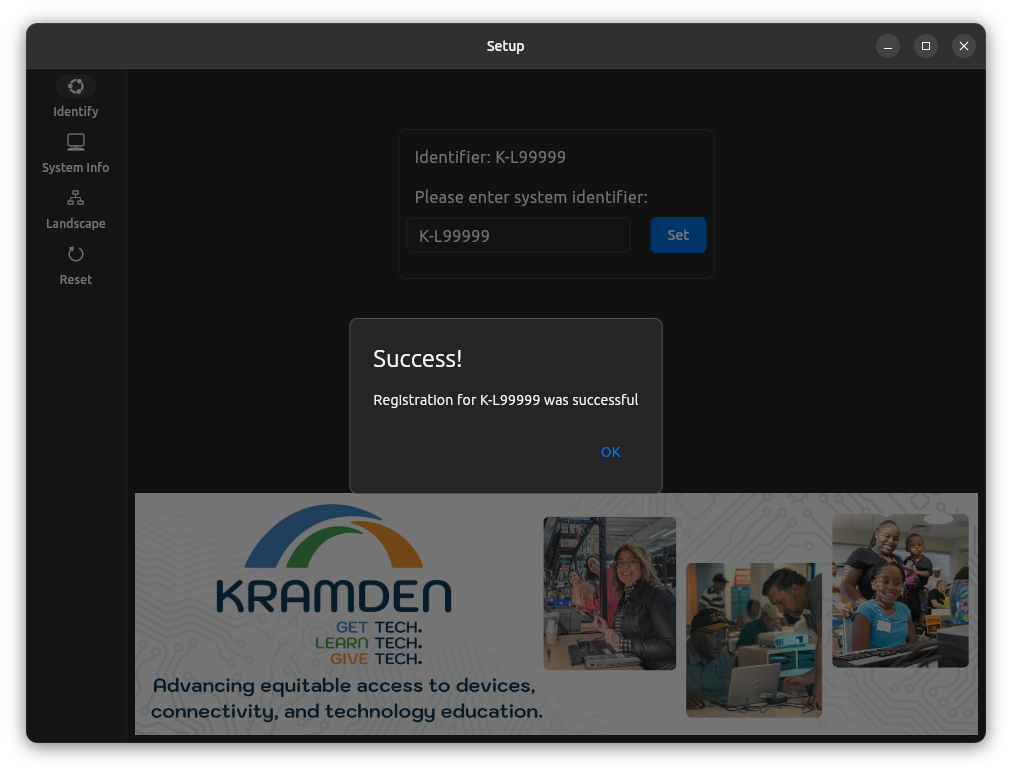
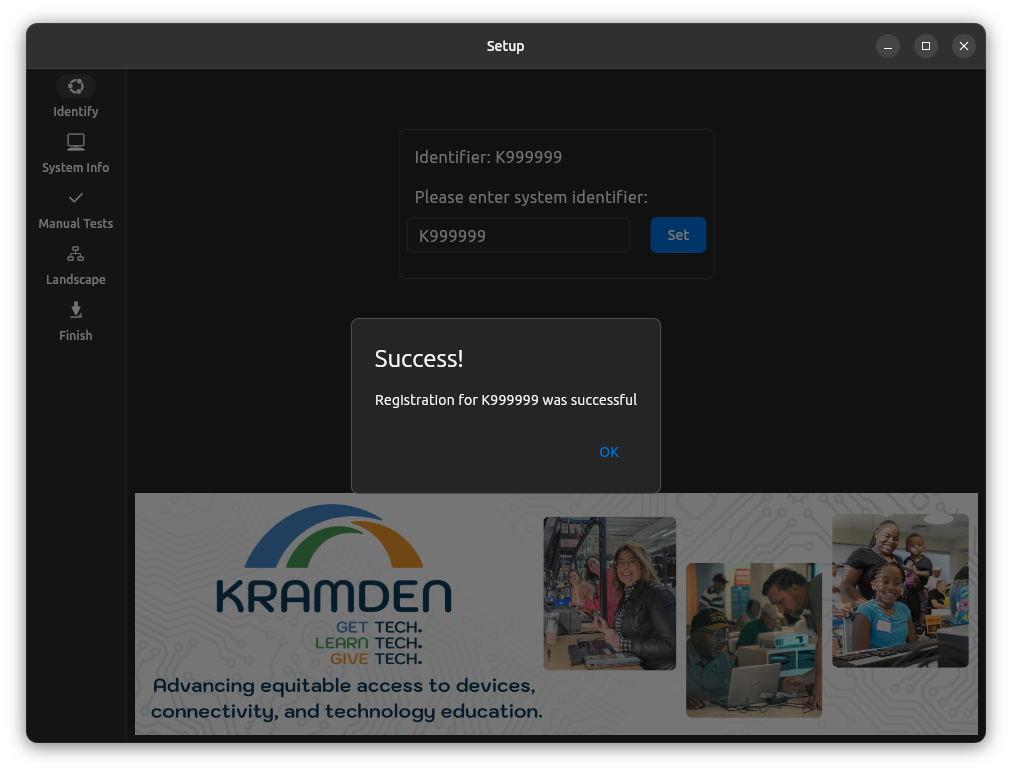
Updated guide and screenshots

diff --git a/docs/install.md b/docs/install.md
@@ -32,7 +32,14 @@ The System Info screen will provide information necessary to fill out the tracki
 
 Pay specific attention to the "System Check" section at the bottom.  The text should be green to indicate it passed.  If the text is red, the text provided should provide a clear indication of what failed.
 
-After filling out the tracking sheet and confirming the tests passed, select "Landscape" from the navigation bar on the left
+After filling out the tracking sheet and confirming the tests passed, select "Manual tests" from the navigation bar on the left
+
+![test-initial.png](images/test-initial.png)
+This page will list manual tests, complete each test and check them off.
+
+![test-done.png](images/test-done.png)
+
+After completing all the listed tests and they have been checked, select "Landscape" from the navigation bar on the left.
 
 ![landscape.png](images/landscape.png)
 
@@ -44,8 +51,11 @@ After successfully registering with landscape you can move on to system reset.  
 
 After successfully registering the system with landscape, select "Finish" from the navigation bar on the left.
 
+![finish-incomplete.png](images/finish-incomplete.png)
+If any required steps haven't been completed, they will be listed on this screen. Go back and complete these steps.
+
 ![finish-and-poweroff.png](images/finish-and-poweroff.png)
 
-If any required steps haven't been completed, they will be listed on this screen.  If all the required steps are complete, you will be able to click the "Complete" button in the middle of the screen, this will do a final reset, prepare the system for the new user, and power off.
+If all the required steps are complete, you will be able to click the "Complete" button in the middle of the screen, this will do a final reset, prepare the system for the new user, and power off.
 
 **<p align=center>The system is now ready to give!</p>**
